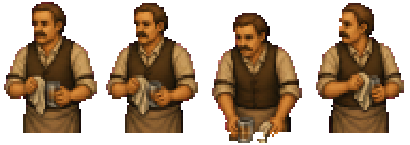
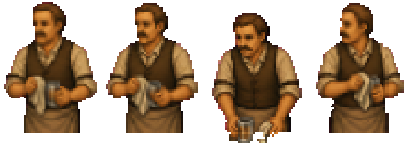
The Nugget's barman, drawn again in the drinkers' colours, wired (errata 326)
Lesson: none -- the first build of a figure from its hand-back; errata 325 carries the first attempt's lesson.

Claude-Session: https://claude.ai/code/session_01FXbCus2Hm36NL2YuHFGB8T

diff --git a/tools/art/nugget-barman-cut-2.py b/tools/art/nugget-barman-cut-2.py
@@ -144,6 +144,10 @@ def main(write):
     if write:
         assert OP == 3, 'only the correction (operation 3) is written; --op 2 measures'
         Image.fromarray(sheet).save(R(OUT))
+        # ONE LEVEL (errata 112; tests/one-level.test.mjs): the grid the game reads at his anchor row, once he is wired,
+        # so a re-cut lands on the pixels the game ships (errata 326).
+        import subprocess
+        subprocess.run([sys.executable, R('tools/art/one-level.py'), '--only', 'room-03-barman'], check=True, stdout=subprocess.DEVNULL)
         render(cells, room, W, H)
 
 

diff --git a/docs/00-errata.md b/docs/00-errata.md
@@ -8118,3 +8118,14 @@ Every flag that opens a place is written in play, so nothing is shut for good (i
 Lesson:
 - `tests/act-one-places.test.ts`: on night one the map shows the town and the road, and nothing past it. Each far place appears when its flag is written, and every opening flag is written in play. It fails on the map as it was.
 - `tests/room-26`, `-27`, `-29` and `-30.test.ts`: each place goes on the map once the road has been walked and the story reaches it, and not on the road alone.
+
+## 326 · The barman, drawn again and wired (Tyler, 2026-11-14)
+
+Tyler: "Can we get a good, new bartender?" The second brief (`reference/nugget-barman/brief.md`) took the drinkers he stands among as the style reference. Tyler raised the image budget to 4,450,000 and the asset's cap to 3. One new drawing and one correction (`reference/nugget-barman/handback-2.md`): a warm cream shirt, a soiled tan apron, a dark brown waistcoat, and the cloth in every frame. Nothing is regraded in the cut, so every colour is the drawing's own. Shipped: texture 8.27, contrast 40.0 and mean light 85.6, against Thad's 6.60, 32.3 and 59.9 and the drinkers' 3.3-3.8, 24.5-40.1 and 46.5-60.8. He is still above the brief's aim, and the hand-back says so. In the bar he reads as one of the room's men.
+
+- **Wired:** `content/ambient/nugget-barman.json`, a band behind the counter at (1580, 515), inside the bar's hotspot, with no lines. `tools/art/nugget-barman-cut-2.py` snaps him to one level after cutting, so a re-cut gives the shipped pixels.
+- **Frame 2 is not played.** In the set-down frame the cloth and the glass are in each other's hands, so the cloth would jump from hand to hand (errata 111). He plays polish A, polish B and the look along the bar.
+- **The bottle** painted on the counter stands in front of him at 1580. It hid only frame 2's glass, so he stays where the brief put him.
+- **Brighter than the drinkers, inside the limit.** He passes errata 205's check as drawn, with no `figureLight` grading.
+
+Lesson: none -- the first build of a figure from its hand-back. Errata 325 carries the lesson of the first attempt.

diff --git a/docs/133-playthrough-rulings.md b/docs/133-playthrough-rulings.md
@@ -174,3 +174,5 @@ Night one is the town: Main Street, Lower Street, the Lane, and their doors, and
 - **The creek, Claim Row, Sheng's laundry, the high ridge, the boarding house, the bakehouse and the schoolhouse**, from Act II. Until then they are not on the map.
 
 **A new drawing** (Tyler, 2026-11-14: "Can we get a good, new bartender?"). The first barman was too sharp, too bright and too white, and squeezing his numbers to Thad's in the cut made him flat and grey (errata 325; Tyler: "This looks awful"). Nothing of him was shipped. `reference/nugget-barman/brief.md` is now the second brief: the drinkers he stands among are the style reference, his colours are theirs, the cloth is in his hand in every frame, and nothing is regraded in the cut. A miss is a second operation, shown the side-by-side.
+
+**Drawn again** (errata 326): one new drawing and one correction, in the drinkers' colours. He polishes and looks along the bar, and Tyler sees him before he goes in.
